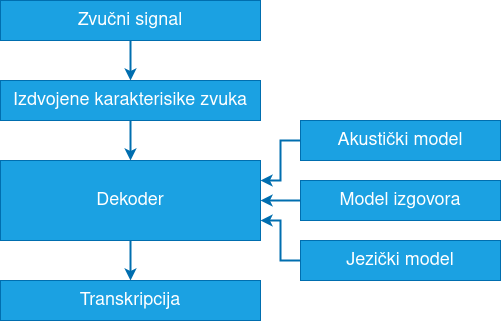
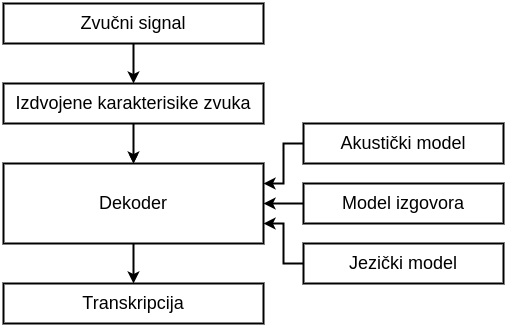
Remove color from statistical model image

diff --git a/05.tex b/05.tex
@@ -174,7 +174,8 @@ Jesu.
 Средње упућен, углавном преко Apple Siri и мало преко неуронских мрежа.
 
 \chapter{Dodatne izmene}
-%Ovde navedite ukoliko ima izmena koje ste uradili a koje vam recenzenti nisu tražili. 
+%Ovde navedite ukoliko ima izmena koje ste uradili a koje vam recenzenti nisu tražili.
+Sklonjena je boja sa slike statističkog modela radi bolje preglednosti.
 
 \end{document}
 
